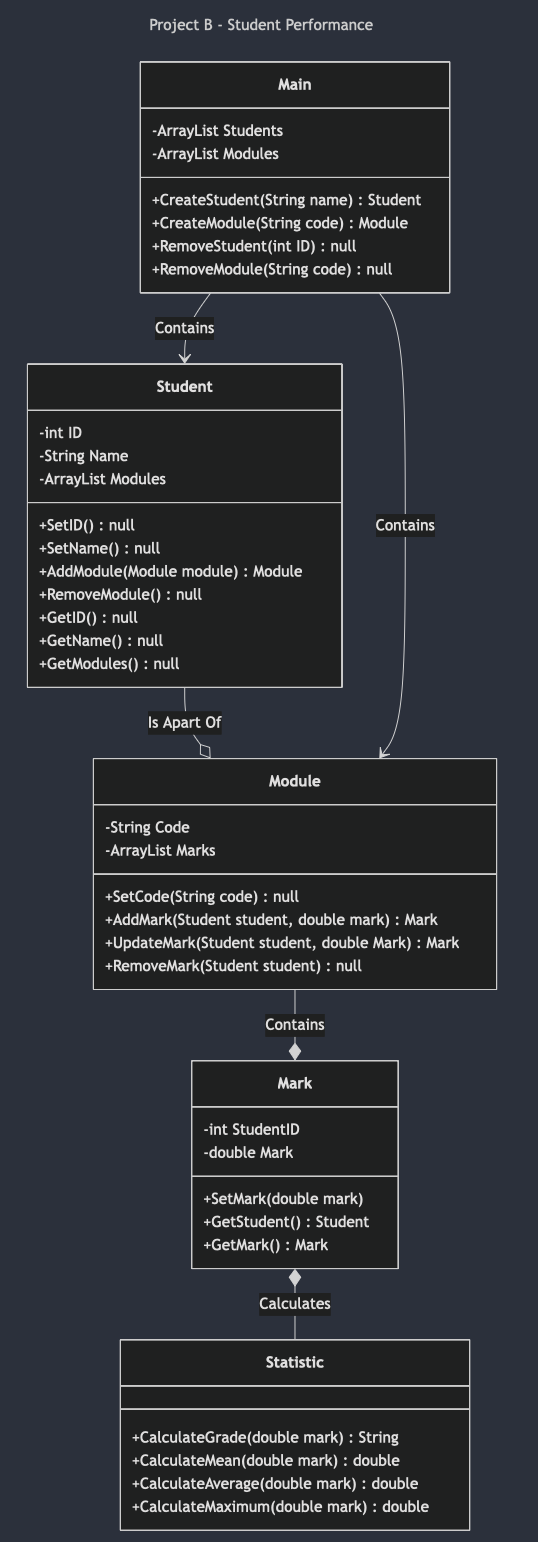
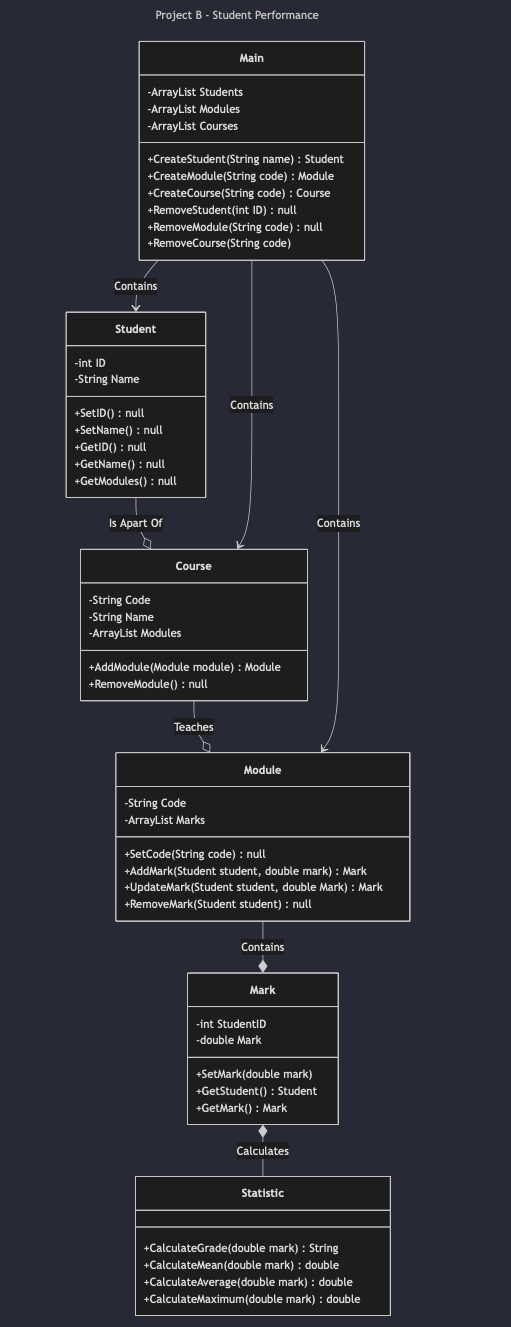
updated class diagram for project b, added new class

diff --git a/Projects/ProjectB/src/Course.java b/Projects/ProjectB/src/Course.java
@@ -1,0 +1,2 @@
+public class Course {
+}
